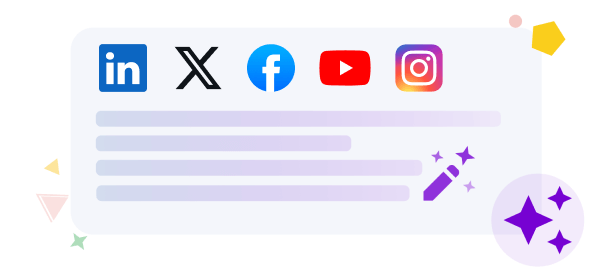
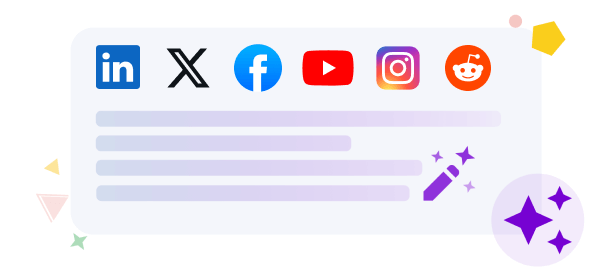
chore: update reddit help me write assets.

Changed region(s): [[0.1562, 0.1429, 0.8125, 0.3429]]

diff --git a/src/features/contextMenu/components/InputAssistantButton/config.ts b/src/features/contextMenu/components/InputAssistantButton/config.ts
@@ -456,7 +456,7 @@ const InputAssistantButtonGroupConfig = {
     composeNewButton: {
       tooltip: 'client:input_assistant_button__compose_new__tooltip',
       buttonKey: 'inputAssistantComposeNewButton',
-      permissionWrapperCardSceneType: 'YOUTUBE_COMPOSE_NEW_BUTTON',
+      permissionWrapperCardSceneType: 'REDDIT_COMPOSE_NEW_BUTTON',
       CTAButtonStyle: {
         iconSize: 16,
         borderRadius: '16px 0 0 16px',
@@ -476,7 +476,7 @@ const InputAssistantButtonGroupConfig = {
     composeReplyButton: {
       tooltip: 'client:input_assistant_button__compose_reply__tooltip',
       buttonKey: 'inputAssistantComposeReplyButton',
-      permissionWrapperCardSceneType: 'YOUTUBE_COMPOSE_REPLY_BUTTON',
+      permissionWrapperCardSceneType: 'REDDIT_COMPOSE_REPLY_BUTTON',
       CTAButtonStyle: {
         padding: '5px 12px',
         iconSize: 14,
@@ -493,7 +493,7 @@ const InputAssistantButtonGroupConfig = {
     refineDraftButton: {
       tooltip: 'client:input_assistant_button__refine_draft__tooltip',
       buttonKey: 'inputAssistantRefineDraftButton',
-      permissionWrapperCardSceneType: 'YOUTUBE_REFINE_DRAFT_BUTTON',
+      permissionWrapperCardSceneType: 'REDDIT_REFINE_DRAFT_BUTTON',
     },
     CTAButtonStyle: {},
     DropdownButtonStyle: {},
